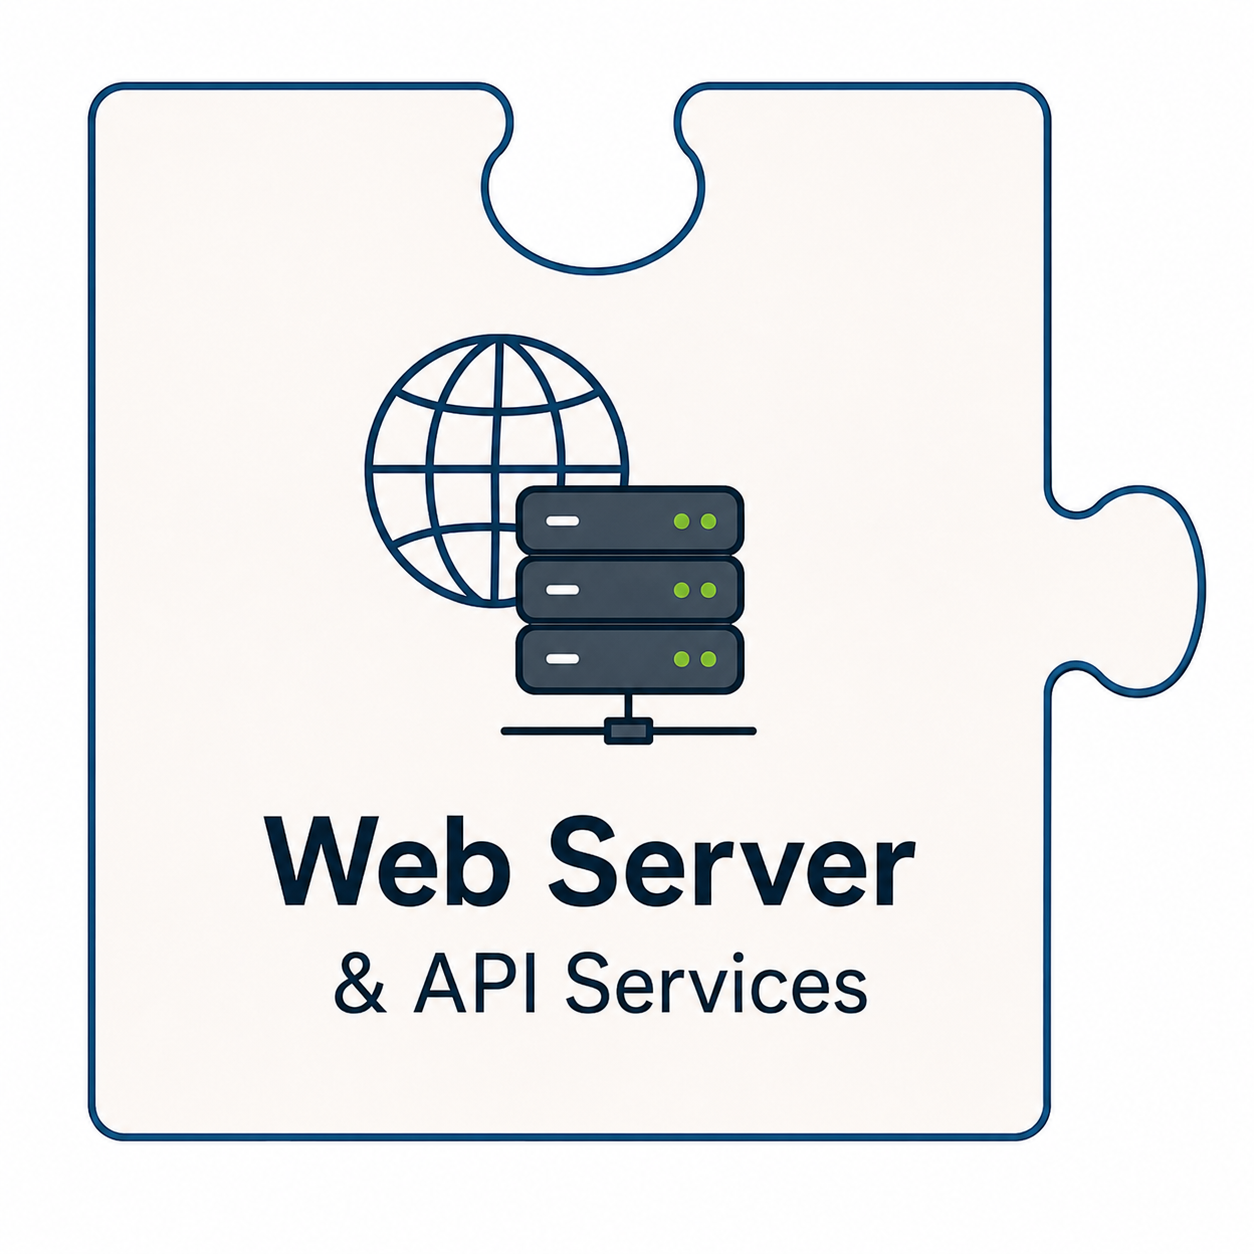
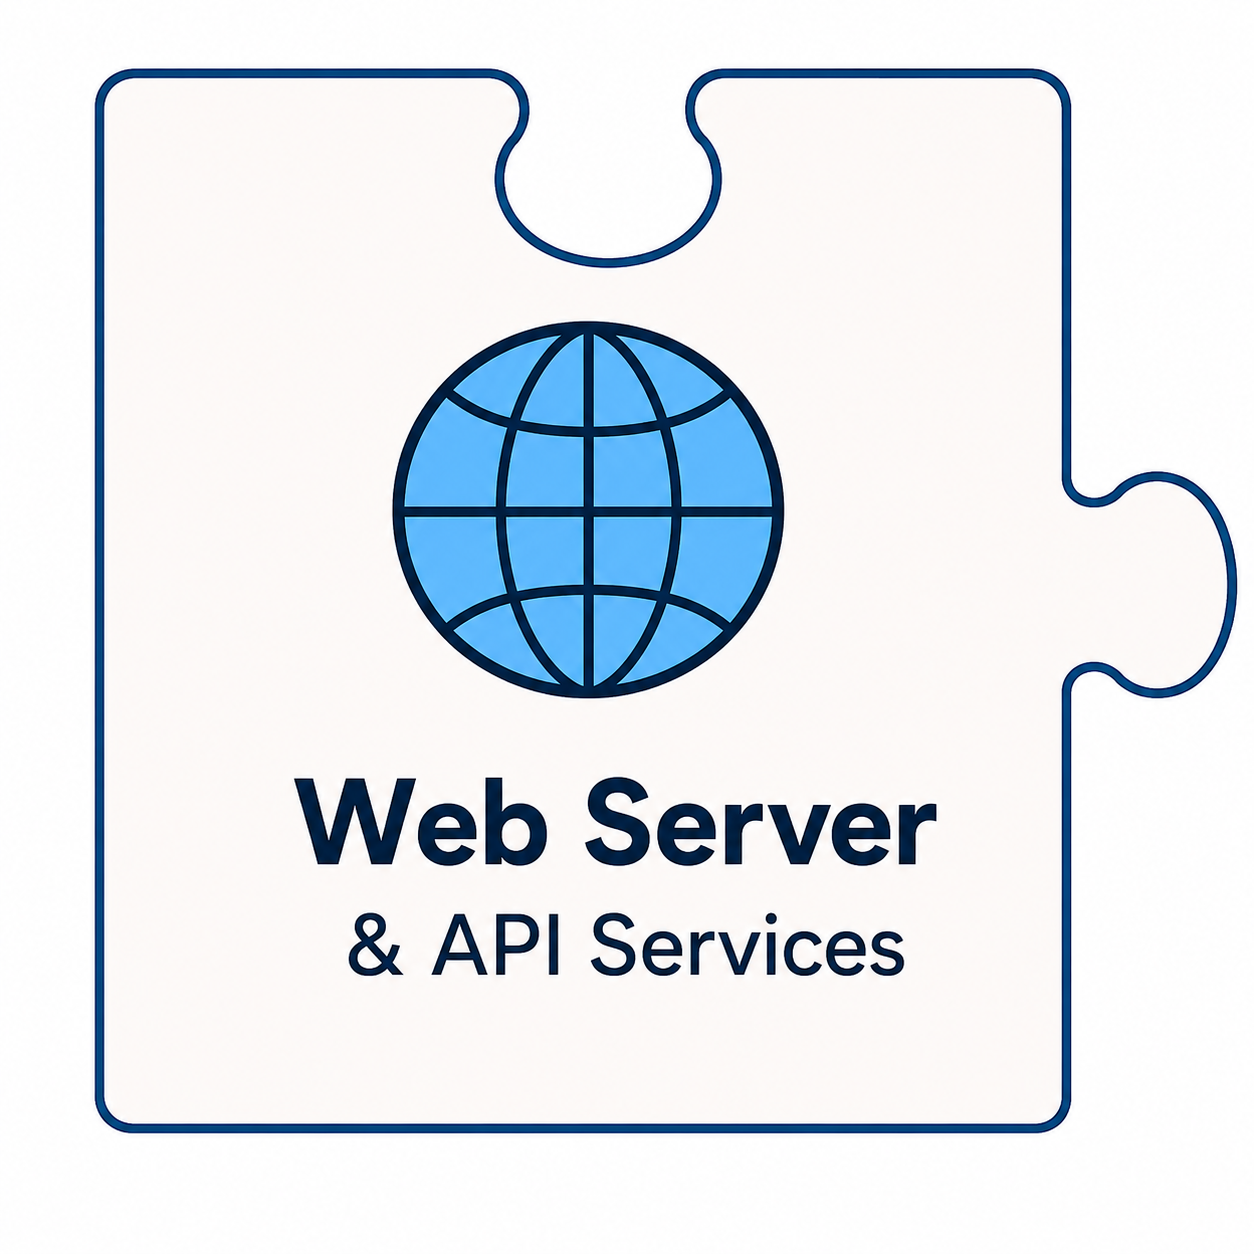
GitHub Pages new ChatGPT Illustrations

Changed region(s): [[0.1866, 0.2488, 0.7464, 0.8086], [0.0622, 0.0311, 0.9952, 0.933]]

diff --git a/changelog/index.md b/changelog/index.md
@@ -4,8 +4,10 @@ layout: default
 nav_order: 98
 ---
 
+<img src="../assets/images/website/changelog.png" alt="Image showing CAMTREES Volunteer consulting a Project Roadmap map" height="512" width="768">
+
 # {{ page.title }}
-_Version: June 10 edit # 1_
+_Version: June 10 edit # 2_
 
 <!-- This content will not appear in the rendered Markdown 
 <details markdown="1">
@@ -70,6 +72,7 @@ Each entry is grouped by month. Within each month, changes are organized by area
 
 ### Website Infrastructure
 
+* Added ChatGPT Illustrations for more pages
 * Project Roadmap now listed with Major Headers as Timeline and Sub Headers as Task Category
 * Added ChatGPT generated website illustrations
 * Added Database Admin skeleton pages for EpiCollect, GitHub, PostgreSQL, Python, etc.

diff --git a/Info-for-database-admins/mapping-gis.md b/Info-for-database-admins/mapping-gis.md
@@ -8,10 +8,10 @@ parent: Info for Database Admins
 <table border="0" cellpadding="10">
   <tr>
     <td valign="top">
-		<img src="../assets/images/website/puzzle-piece-google-services.png" alt="A Mapping / GIS jigsaw puzzle piece" height="418">
+		<img src="../assets/images/website/puzzle-piece-mapping-gis.png" alt="A Mapping / GIS jigsaw puzzle piece" height="418">
     </td>
     <td valign="center">
-      <center><h2>CAMTREES<br>Database<br>and<br>Mapping / GIS</h2></center>
+      <center><h2>CAMTREES<br>Database<br>and<br>Mapping/GIS</h2></center>
     </td>
   </tr>
 </table>